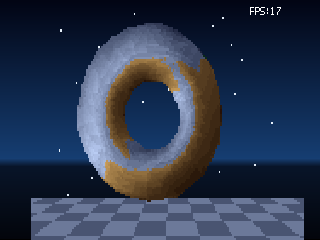
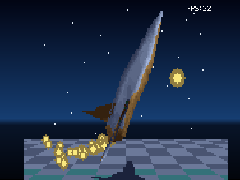
docs: expand README showcase to 4 uniform v1.3 screenshots

diff --git a/README.md b/README.md
@@ -6,9 +6,9 @@
 
 ## Live Hardware / FS-UAE Showcase (v1.3)
 
-| 3D Vertex Morphing | Space Shuttle 3D + Particle Trail | 16-bit Z-Buffer Torus + Copper Sky |
-| :---: | :---: | :---: |
-| ![3D Morph](docs/shot_morph.png?v=13) | ![Space Shuttle](docs/shot_shuttle.png?v=13) | ![Z-Buffer Torus](docs/shot_torus.png?v=13) |
+| 3D Vertex Morphing (1008 Tris) | Space Shuttle + Particle Trail | High-Poly Torus + 3D Floor | 3D Hero Mesh + Copper Sky |
+| :---: | :---: | :---: | :---: |
+| ![3D Morph](docs/shot_morph.png?v=134) | ![Space Shuttle](docs/shot_shuttle.png?v=134) | ![Z-Buffer Torus](docs/shot_torus.png?v=134) | ![3D Hero](docs/shot_hero.png?v=134) |
 
 ## Download Latest Release (v1.3) / Pobierz najnowszą wersję (v1.3)
 
